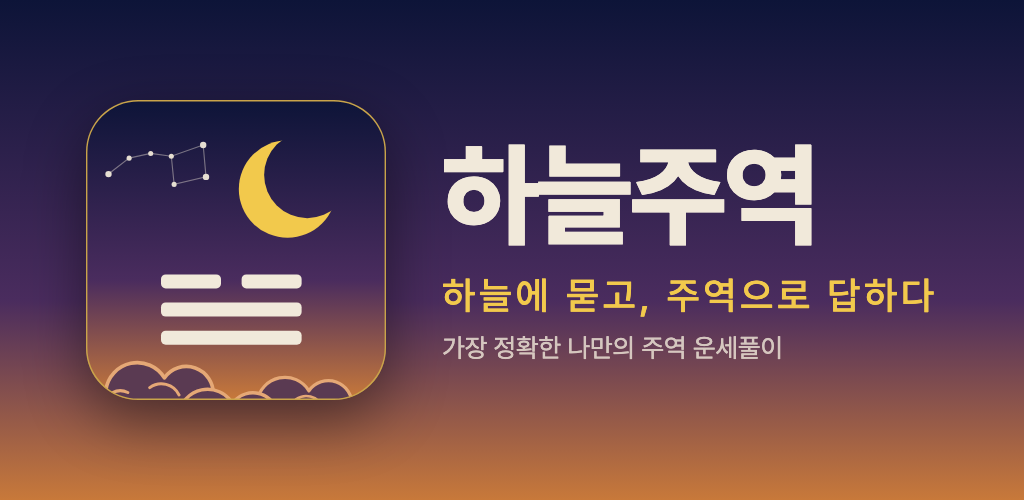
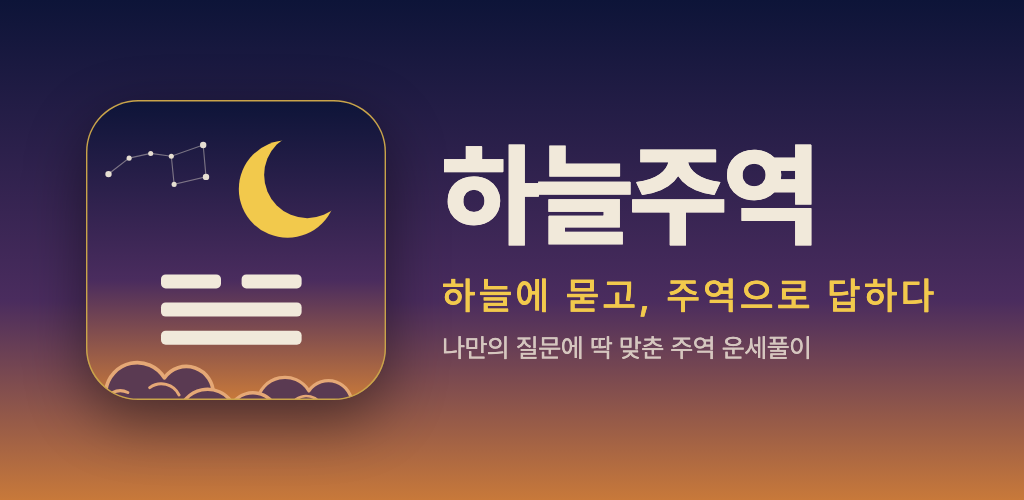
Feature tagline 나만의 질문에 딱 맞춘 주역 운세풀이; push body 하늘에 오늘의 주역 괘를 물었어요

Changed region(s): [[0.4375, 0.66, 0.8125, 0.72]]

diff --git a/public/sw.js b/public/sw.js
@@ -1,6 +1,6 @@
 // 푸시 알림을 받아 표시하고, 누르면 앱을 여는 서비스 워커
 self.addEventListener("push", (event) => {
-  let data = { title: "하늘주역", body: "하늘이 오늘의 괘를 보냈어요.", url: "./", tag: "daily-hexagram" };
+  let data = { title: "하늘주역", body: "하늘에 오늘의 주역 괘를 물었어요", url: "./", tag: "daily-hexagram" };
   try {
     if (event.data) data = { ...data, ...event.data.json() };
   } catch {

diff --git a/checklist.md b/checklist.md
@@ -477,5 +477,5 @@
 - [x] 앱 아이콘 v3 교체: public/icon-v3.svg, icon-v3-512/192.png, icon-v3-maskable-512.png(안전 영역 80%), apple-touch-icon-v3.png. 매니페스트, layout, sw.js 알림 아이콘 연결. 옛 v2와 v1 아이콘 삭제
 - [x] 스토어: store/store-icon-1024.png(Play 아이콘), store/feature-graphic-1024x500.png 다시 제작
 - [x] 스토어 스크린샷 5장 새 이름으로 다시 캡처(실제 사이트, 1080x1920, 다크). store/screens-sheet.png에 모아 봄
-- [x] 대표 이미지 문구 "가장 정확한 나만의 주역 운세풀이", 북두칠성 1.4배. 아이콘 PNG 다시 생성
-- [x] 톤앤매너 마이크로 카피: AI 로딩 첫 단계 "하늘의 뜻을 묻는 중", 이어 묻기 "주역이 답하는 중…", 홈 버튼 "하늘에 묻기", 빈 기록 "아직 하늘에 물은 적이 없어요", 집중 단계 "집중했어요, 하늘에 묻기", 공유 "친구에게 알리고 한 번 더 묻기", 이미지 "괘를 그림에 담는 중…", 알림 "하늘이 오늘의 괘를 보냈어요." 태극 마크는 유지
+- [x] 대표 이미지 문구 "나만의 질문에 딱 맞춘 주역 운세풀이", 북두칠성 1.4배. 아이콘 PNG 다시 생성
+- [x] 톤앤매너 마이크로 카피: AI 로딩 첫 단계 "하늘의 뜻을 묻는 중", 이어 묻기 "주역이 답하는 중…", 홈 버튼 "하늘에 묻기", 빈 기록 "아직 하늘에 물은 적이 없어요", 집중 단계 "집중했어요, 하늘에 묻기", 공유 "친구에게 알리고 한 번 더 묻기", 이미지 "괘를 그림에 담는 중…", 알림 "하늘에 오늘의 주역 괘를 물었어요" 태극 마크는 유지
